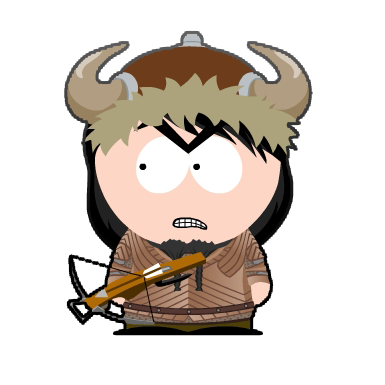
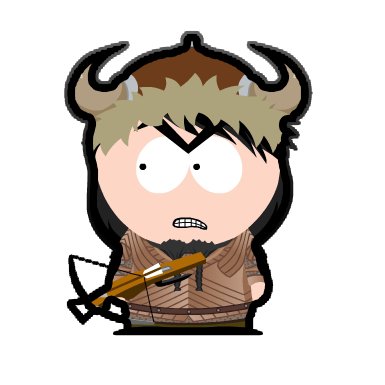
-ajuste img

diff --git a/JogosDeGuerraWebAPI/Scripts/Tabuleiro.js b/JogosDeGuerraWebAPI/Scripts/Tabuleiro.js
@@ -116,7 +116,11 @@ $(function () {
         var pecas = batalha.Tabuleiro.ElementosDoExercito
         var ExercitoBrancoId = batalha.ExercitoBrancoId;
         var ExercitoPretoId = batalha.ExercitoPretoId;
-        
+        if (batalha.TurnoId == batalha.ExercitoBranco.UsuarioId) {
+            $("#turno_jogador").text(batalha.ExercitoBranco.Usuario.Email)
+        } else {
+            $("#turno_jogador").text(batalha.ExercitoPreto.Usuario.Email)
+        }
         $("#tabuleiro").empty();
         var i;
         for (i = 0; i < batalha.Tabuleiro.Altura; i++) {
@@ -171,7 +175,9 @@ $(function () {
                     pecaSelecionadaObj = pecasNoTabuleiro[altura][largura];
                 }
                 //Legenda que mostra informações da peça selecionada.
-                $("#info_peca_selecionada").text(peca_selecionadaId.toString());
+                var msgPecaSelecionada = peca_selecionadaId.toString();
+                if (pecaSelecionadaObj) msgPecaSelecionada += " | Saúde: " + pecaSelecionadaObj.Saude;
+                $("#info_peca_selecionada").text(msgPecaSelecionada);
             } else {
                 var posicaopeca = {
                     Altura: altura,

diff --git a/JogosDeGuerraWebAPI/Content/TabuleiroEstilo.css b/JogosDeGuerraWebAPI/Content/TabuleiroEstilo.css
@@ -31,5 +31,5 @@
 }
 
 .casa_selecionada {
-    background-color: #dd4b39a6;
+    background-color: #FF0000;
 }

diff --git a/JogosDeGuerraModel/Migrations/201811300140521_29.cs b/JogosDeGuerraModel/Migrations/201811300140521_29.cs
@@ -3,7 +3,7 @@ namespace JogosDeGuerraModel.Migrations
     using System;
     using System.Data.Entity.Migrations;
     
-    public partial class _2911 : DbMigration
+    public partial class _29 : DbMigration
     {
         public override void Up()
         {
@@ -38,28 +38,10 @@ namespace JogosDeGuerraModel.Migrations
                         Nacao = c.Int(nullable: false),
                     })
                 .PrimaryKey(t => t.Id)
+                .ForeignKey("dbo.Batalhas", t => t.BatalhaId)
                 .ForeignKey("dbo.Usuarios", t => t.UsuarioId, cascadeDelete: true)
+                .Index(t => t.BatalhaId)
                 .Index(t => t.UsuarioId);
-            
-            CreateTable(
-                "dbo.Tabuleiroes",
-                c => new
-                    {
-                        Id = c.Int(nullable: false, identity: true),
-                        Largura = c.Int(nullable: false),
-                        Altura = c.Int(nullable: false),
-                    })
-                .PrimaryKey(t => t.Id);
-            
-            CreateTable(
-                "dbo.Usuarios",
-                c => new
-                    {
-                        Id = c.Int(nullable: false, identity: true),
-                        Name = c.String(),
-                        Email = c.String(),
-                    })
-                .PrimaryKey(t => t.Id);
             
             CreateTable(
                 "dbo.Batalhas",
@@ -88,20 +70,41 @@ namespace JogosDeGuerraModel.Migrations
                 .Index(t => t.TurnoId)
                 .Index(t => t.Usuario_Id);
             
+            CreateTable(
+                "dbo.Tabuleiroes",
+                c => new
+                    {
+                        Id = c.Int(nullable: false, identity: true),
+                        Largura = c.Int(nullable: false),
+                        Altura = c.Int(nullable: false),
+                    })
+                .PrimaryKey(t => t.Id);
+            
+            CreateTable(
+                "dbo.Usuarios",
+                c => new
+                    {
+                        Id = c.Int(nullable: false, identity: true),
+                        Name = c.String(),
+                        Email = c.String(),
+                    })
+                .PrimaryKey(t => t.Id);
+            
         }
         
         public override void Down()
         {
             DropForeignKey("dbo.Exercitoes", "UsuarioId", "dbo.Usuarios");
             DropForeignKey("dbo.Batalhas", "Usuario_Id", "dbo.Usuarios");
+            DropForeignKey("dbo.ElementoDoExercitoes", "Exercito_Id", "dbo.Exercitoes");
+            DropForeignKey("dbo.Exercitoes", "BatalhaId", "dbo.Batalhas");
             DropForeignKey("dbo.Batalhas", "VencedorId", "dbo.Exercitoes");
             DropForeignKey("dbo.Batalhas", "TurnoId", "dbo.Exercitoes");
             DropForeignKey("dbo.Batalhas", "TabuleiroId", "dbo.Tabuleiroes");
-            DropForeignKey("dbo.Batalhas", "ExercitoPretoId", "dbo.Exercitoes");
-            DropForeignKey("dbo.Batalhas", "ExercitoBrancoId", "dbo.Exercitoes");
-            DropForeignKey("dbo.ElementoDoExercitoes", "Exercito_Id", "dbo.Exercitoes");
             DropForeignKey("dbo.ElementoDoExercitoes", "TabuleiroId", "dbo.Tabuleiroes");
             DropForeignKey("dbo.ElementoDoExercitoes", "ExercitoId", "dbo.Exercitoes");
+            DropForeignKey("dbo.Batalhas", "ExercitoPretoId", "dbo.Exercitoes");
+            DropForeignKey("dbo.Batalhas", "ExercitoBrancoId", "dbo.Exercitoes");
             DropIndex("dbo.Batalhas", new[] { "Usuario_Id" });
             DropIndex("dbo.Batalhas", new[] { "TurnoId" });
             DropIndex("dbo.Batalhas", new[] { "VencedorId" });
@@ -109,12 +112,13 @@ namespace JogosDeGuerraModel.Migrations
             DropIndex("dbo.Batalhas", new[] { "ExercitoBrancoId" });
             DropIndex("dbo.Batalhas", new[] { "TabuleiroId" });
             DropIndex("dbo.Exercitoes", new[] { "UsuarioId" });
+            DropIndex("dbo.Exercitoes", new[] { "BatalhaId" });
             DropIndex("dbo.ElementoDoExercitoes", new[] { "Exercito_Id" });
             DropIndex("dbo.ElementoDoExercitoes", new[] { "ExercitoId" });
             DropIndex("dbo.ElementoDoExercitoes", new[] { "TabuleiroId" });
-            DropTable("dbo.Batalhas");
             DropTable("dbo.Usuarios");
             DropTable("dbo.Tabuleiroes");
+            DropTable("dbo.Batalhas");
             DropTable("dbo.Exercitoes");
             DropTable("dbo.ElementoDoExercitoes");
         }

diff --git a/JogosDeGuerraModel/Migrations/201811300140521_29.Designer.cs b/JogosDeGuerraModel/Migrations/201811300140521_29.Designer.cs
@@ -7,13 +7,13 @@ namespace JogosDeGuerraModel.Migrations
     using System.Resources;
     
     [GeneratedCode("EntityFramework.Migrations", "6.2.0-61023")]
-    public sealed partial class _2911 : IMigrationMetadata
+    public sealed partial class _29 : IMigrationMetadata
     {
-        private readonly ResourceManager Resources = new ResourceManager(typeof(_2911));
+        private readonly ResourceManager Resources = new ResourceManager(typeof(_29));
         
         string IMigrationMetadata.Id
         {
-            get { return "201811291137005_29.11"; }
+            get { return "201811300140521_29"; }
         }
         
         string IMigrationMetadata.Source
